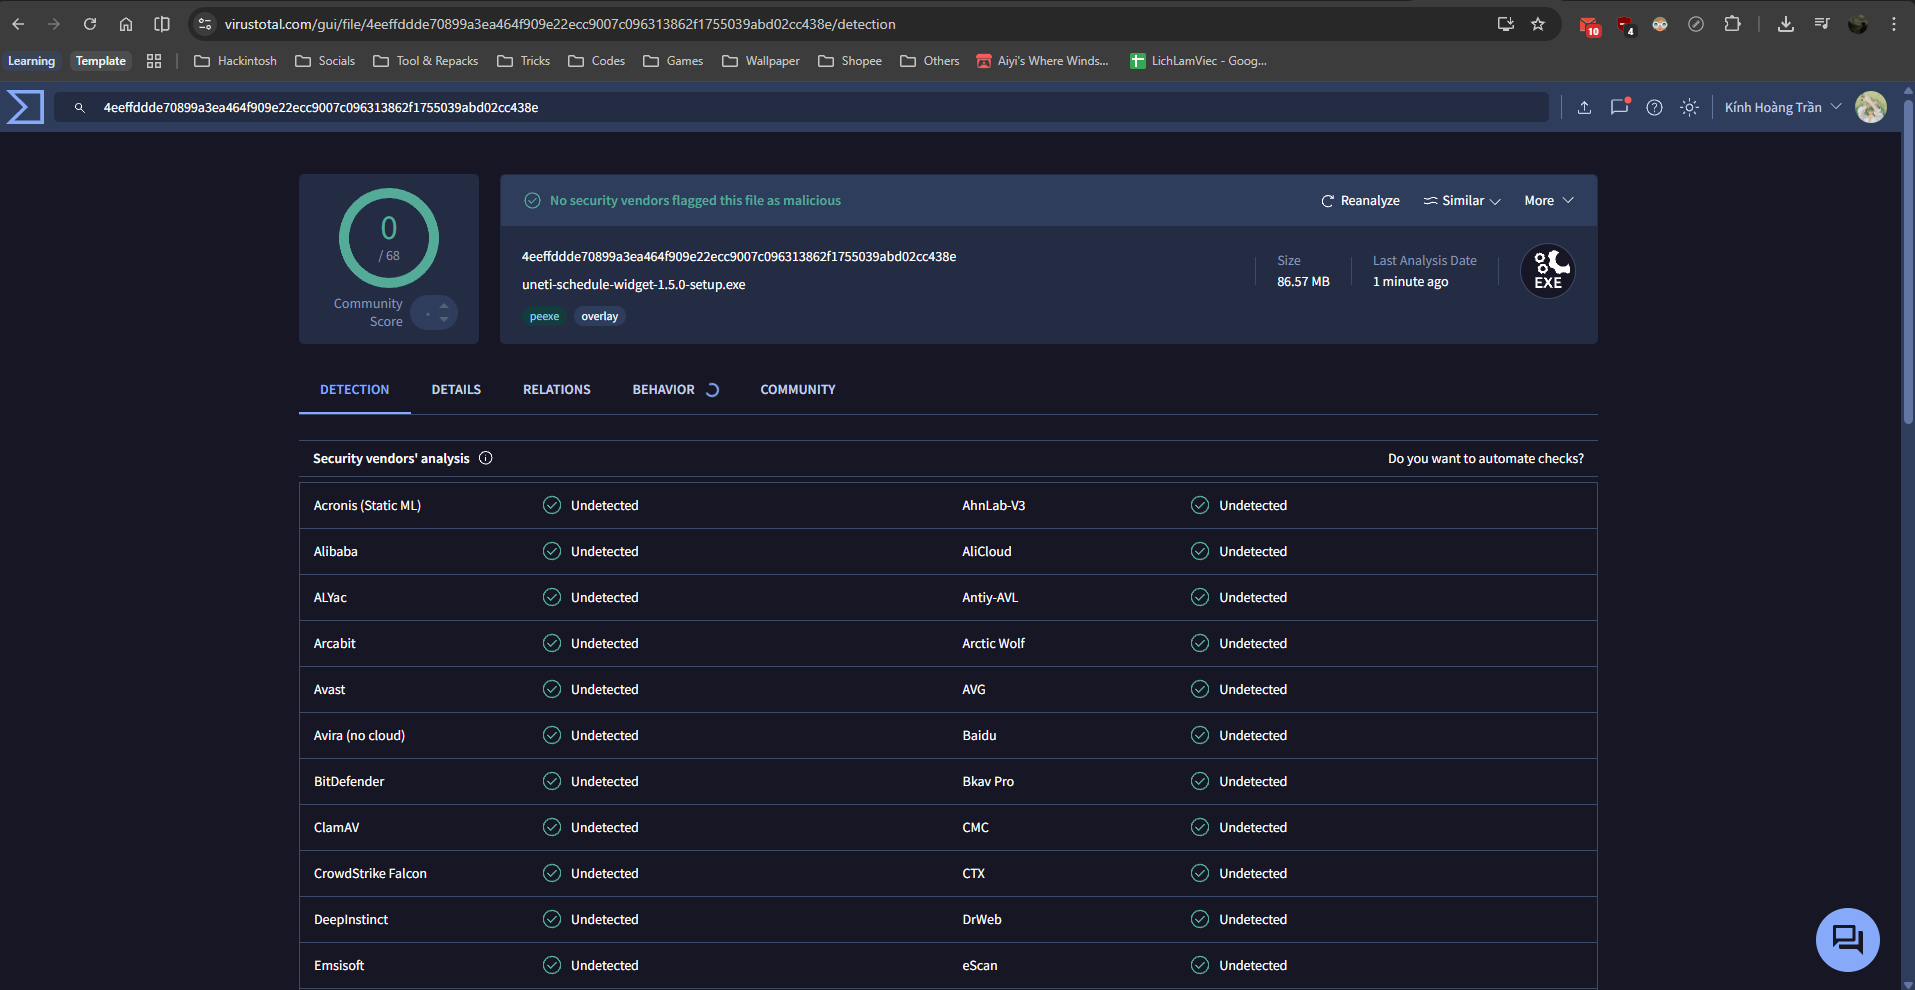
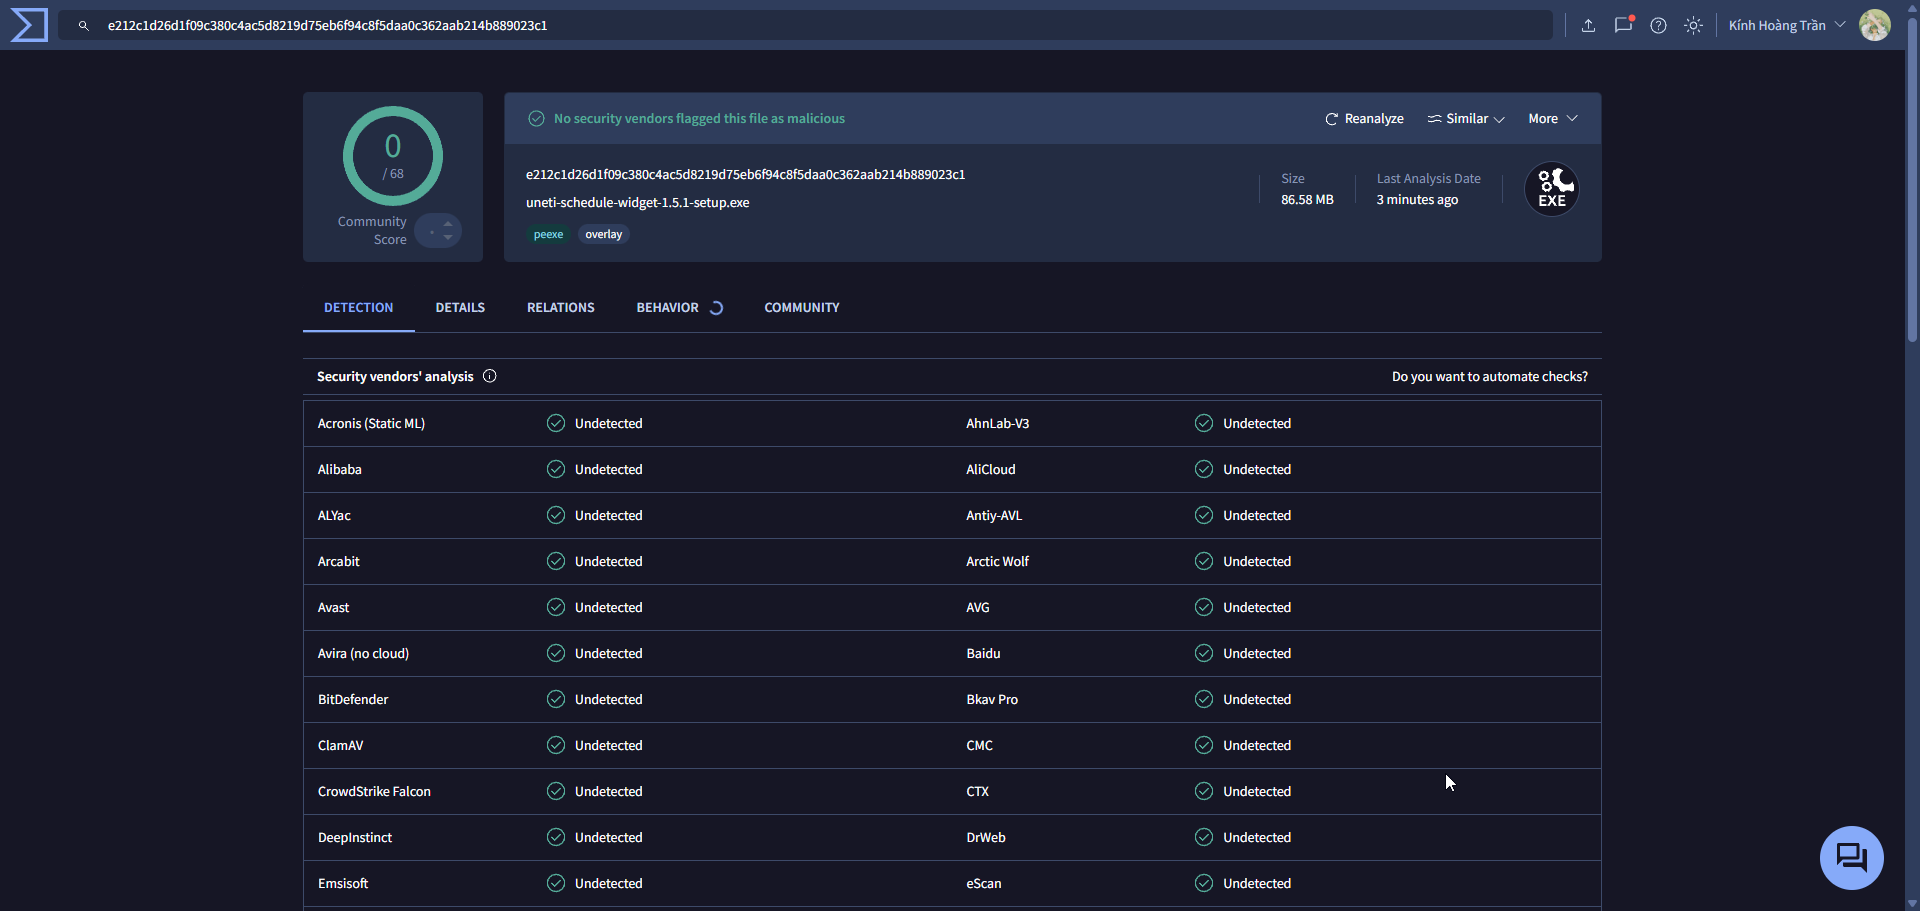
docs: update README and screenshots [skip ci]

Changed region(s): [[0.0, 0.0, 1.0, 1.0], [0.9551, 0.8913, 0.9859, 0.9835], [0.9859, 0.9835, 1.0, 1.0]]

diff --git a/README.en.md b/README.en.md
@@ -78,10 +78,12 @@ The app auto-refreshes schedules every hour, so your schedule is always up to da
 </p>
 
 <p align="center">
-  <em>
-    VirusTotal scan results at the time of release - 0/68 security engines reported no malware detection.
-  </em><br/>
-  <a href="https://www.virustotal.com/gui/file/4eeffddde70899a3ea464f909e22ecc9007c096313862f1755039abd02cc438e/detection" target="_blank">
+  VirusTotal scan results at the time of release
+  <a href="https://github.com/hoaug-tran/uneti-schedule-app/releases/tag/v1.5.1">
+    v1.5.1
+  </a>
+  – 0/68 security engines detected malware.<br/>
+  <a href="https://www.virustotal.com/gui/file/e212c1d26d1f09c380c4ac5d8219d75eb6f94c8f5daa0c362aab214b889023c1" target="_blank">
     View the detailed VirusTotal report
   </a>
 </p>

diff --git a/README.md b/README.md
@@ -79,8 +79,12 @@ App tự động làm mới lịch mỗi giờ, nên lịch luôn cập nhật.
 </p>
 
 <p align="center">
-  Kết quả quét VirusTotal tại thời điểm phát hành - 0/68 engine phát hiện mã độc<br/>
-  <a href="https://www.virustotal.com/gui/file/4eeffddde70899a3ea464f909e22ecc9007c096313862f1755039abd02cc438e/detection" target="_blank">
+  Kết quả quét VirusTotal tại thời điểm phát hành
+  <a href="https://github.com/hoaug-tran/uneti-schedule-app/releases/tag/v1.5.1">
+    v1.5.1
+  </a>
+  – 0/68 engine phát hiện mã độc<br/>
+  <a href="https://www.virustotal.com/gui/file/e212c1d26d1f09c380c4ac5d8219d75eb6f94c8f5daa0c362aab214b889023c1" target="_blank">
     Xem chi tiết trên VirusTotal
   </a>
 </p>
